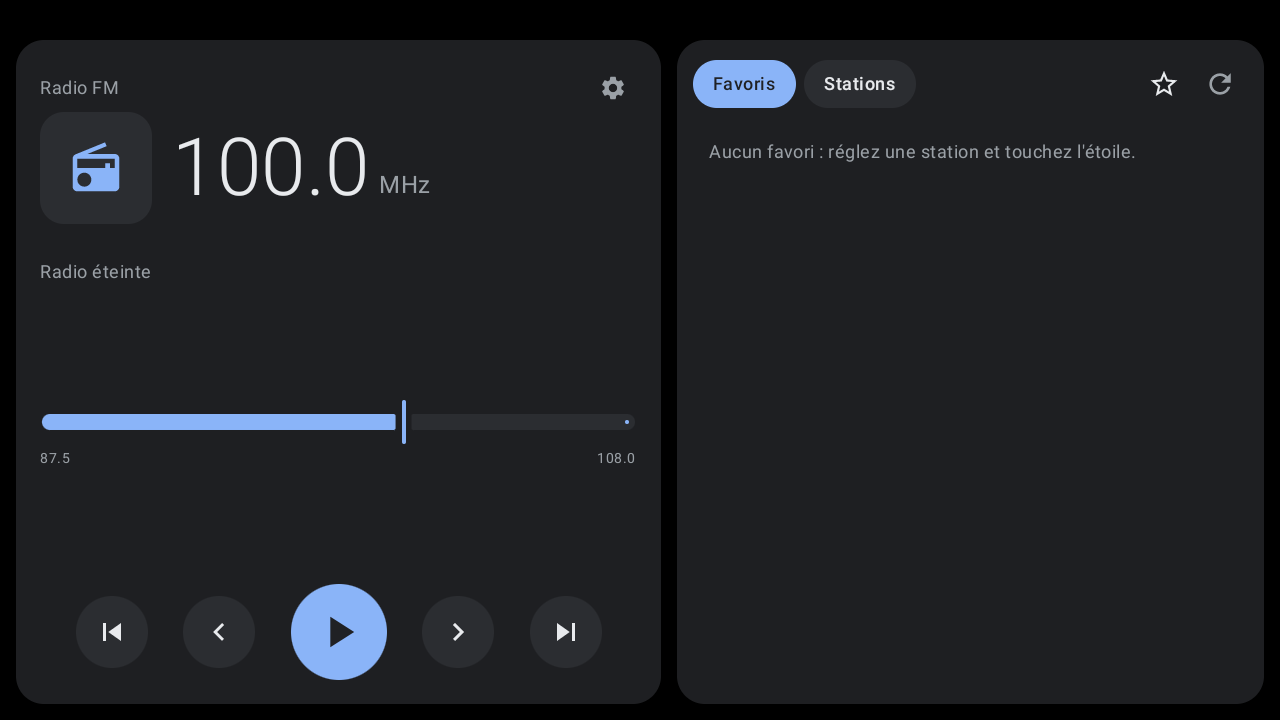
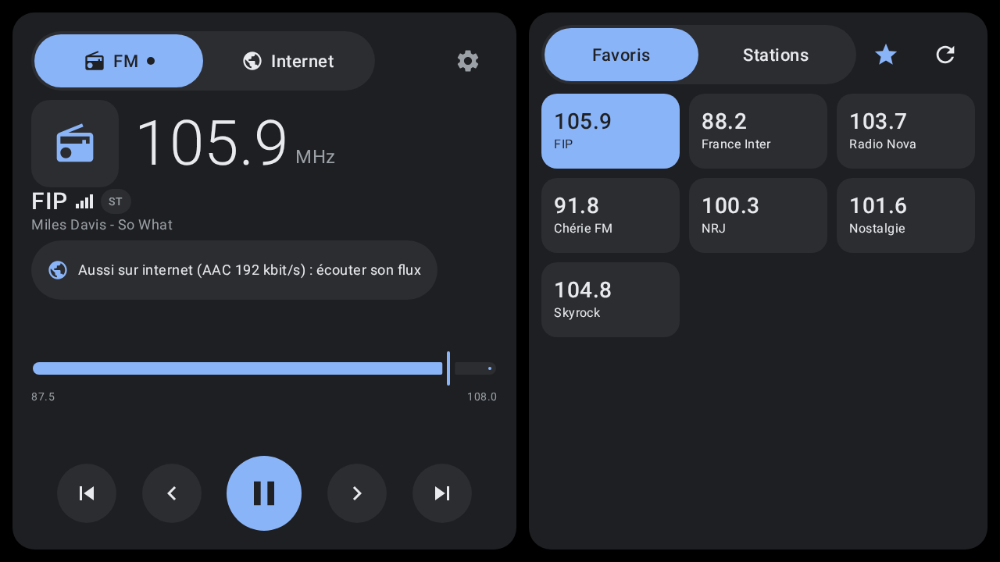
LibreHU FM: antenna amplifier setting, FM | Internet switch at car touch size (76 dp), fresh main and stations screenshots [skip ci]
Claude-Session: https://claude.ai/code/session_01XRjtAUQRfPdhpQr2pgpTdm

diff --git a/docs.html b/docs.html
@@ -256,8 +256,8 @@ adb shell pm enable com.jancar.services</code></pre>
 
 <h2 id="apps"><span lang="en">Other apps</span><span lang="fr">Autres applis</span></h2>
 <h3>LibreHU FM</h3>
-<p><span lang="en">FM radio on the internal MediaTek chip (MT6631 combo, <code>/dev/fm</code>): stations, seek, scan, RDS, station logos, widget; asks LibreHU service for the antenna power (GPIO 110 + MCU <code>43</code>) while it plays. <strong>RDS on the AC8257</strong> (station name, radiotext, PTY, TP / TA, AF) since builds <code>e65f5a0</code> (main), <code>44994bc</code> (librehu-service) and <code>33a91aa</code> (ivi): the FM driver gives a 720-byte RDS record (RT+ tags included) and the app, which asked for 688 bytes, never got one; it now reads both formats. Analysis and first fix: Reo Au In. <strong>Band and region</strong> (settings, also from the phone): from the country or chosen; Europe, Africa, Asia 87.5–108 MHz, 100 kHz steps, 50 µs de-emphasis; Americas and South Korea 87.5–107.9 MHz on the odd tenths, 200 kHz steps, <strong>75 µs</strong> de-emphasis (US stations no longer sound too bright) and RBDS programme types; Brazil with its extended band 76.1–107.9 MHz; Japan 76–95 MHz. <strong>US call letters</strong> worked out from the PI code (NRSC-4-B) when the station sends no name. <strong>Enhanced RadioText (eRT)</strong>, the UTF-8 text of non-Latin scripts, rebuilt from the raw RDS groups, with its artist and title (eRT+). <strong>Reception</strong>: signal bars and stereo indicator, forced mono (LibreHU kernel r146 and later, whose FM driver now passes the command on), search of strong stations only (local). <strong>Traffic announcements</strong> (option): full volume while the radio plays; over another source, the radio staying on in the background and taking over during the announcement (not with Jancar ivi-services). <strong>RDS clock</strong> (option): the head unit's clock set from the station's time. <strong>Alert</strong> (programme type 31): red line and priority notification. <strong>Songs heard</strong>: RT+ history with the time. US station logos looked up by call letters. <strong>Accented letters</strong> of the RDS (EN 50067 character set) are shown instead of spaces. <strong>RT+</strong>: artist and title tagged by the station, under the station name, on the widget, the notification and the launcher's media card.</span><span lang="fr">Radio FM sur la puce MediaTek interne (combo MT6631, <code>/dev/fm</code>) : stations, recherche, balayage, RDS, logos des stations, widget ; demande à LibreHU service l'alimentation de l'antenne (GPIO 110 + MCU <code>43</code>) pendant la lecture. <strong>RDS sur l'AC8257</strong> (nom de station, radiotexte, PTY, TP / TA, AF) depuis les builds <code>e65f5a0</code> (main), <code>44994bc</code> (librehu-service) et <code>33a91aa</code> (ivi) : le pilote FM rend un enregistrement RDS de 720 octets (balises RT+ comprises) et l'appli, qui en demandait 688, n'en recevait aucun ; elle lit maintenant les deux formats. Analyse et premier correctif : Reo Au In. <strong>Bande et région</strong> (paramètres, aussi depuis le téléphone) : d'après le pays ou au choix ; Europe, Afrique, Asie 87,5–108 MHz, pas de 100 kHz, désaccentuation 50 µs ; Amériques et Corée du Sud 87,5–107,9 MHz sur les dixièmes impairs, pas de 200 kHz, désaccentuation <strong>75 µs</strong> (les stations américaines ne sonnent plus trop aiguës) et types de programme RBDS ; Brésil avec sa bande étendue 76,1–107,9 MHz ; Japon 76–95 MHz. <strong>Indicatifs américains</strong> calculés depuis le code PI (NRSC-4-B) quand la station n'envoie pas de nom. <strong>Radiotexte étendu (eRT)</strong>, le texte UTF-8 des écritures non latines, reconstruit à partir des groupes RDS bruts, avec son artiste et son titre (eRT+). <strong>Réception</strong> : barres de signal et indicateur stéréo, mono forcé (noyau LibreHU r146 et plus, dont le pilote FM transmet enfin la commande), recherche des stations fortes seulement (locales). <strong>Annonces trafic</strong> (option) : volume plein si la radio joue ; par-dessus une autre source, la radio restant allumée en fond et prenant la main pendant l'annonce (pas avec Jancar ivi-services). <strong>Heure RDS</strong> (option) : horloge de l'autoradio réglée sur l'heure de la station. <strong>Alerte</strong> (type de programme 31) : ligne rouge et notification prioritaire. <strong>Titres entendus</strong> : historique RT+ avec l'heure. Logos des stations américaines cherchés par indicatif. Les <strong>lettres accentuées</strong> du RDS (table de caractères EN 50067) s'affichent au lieu d'espaces. <strong>RT+</strong> : artiste et titre balisés par la station, sous le nom de la station, sur le widget, la notification et la carte média du lanceur.</span></p>
-<p><span lang="en"><strong>Internet radio</strong> (FM | Internet tabs, modern style): Media3 player (MP3, AAC, Opus, FLAC, HLS) with the song title sent by the stream (ICY), a 15 to 60 s buffer and automatic reconnection after a coverage hole. <strong>Add by hand</strong> a stream address or an <strong>M3U / PLS</strong> link, or <strong>import an M3U / PLS file</strong> (USB key). <strong>Catalogue</strong>: the <a href="https://www.radio-browser.info">Radio Browser</a> list of the country (community, about 4 MB for France, kept a week), by <strong>region</strong> (merged spellings; only about one French station in five gives one, national networks none: they are under "National / no region"), by genre and by name, each chosen on a <strong>grid of big tiles</strong> fitting one screen (biggest regions first, small ones under "Other regions"; country of the catalogue apart from the FM band's); the streams of a station are grouped and the one played follows the <strong>quality</strong> setting: best sound (FLAC, then the highest bitrate) or less data (128 kbit/s ≈ 58 MB per hour, 320 kbit/s ≈ 144 MB). The head unit's audio output is 48 kHz / 16-bit stereo: above CD quality nothing more is heard. <strong>From FM to the internet</strong>: when the FM station is also on the internet and the internet works, the FM screen offers its stream (one touch), then "Back to FM"; only on a clear name match (two stations about as close to the 8-letter RDS name: nothing is offered). In the launcher's <strong>factory</strong> and <strong>LHU-Link</strong> styles too: an <strong>Internet</strong> key on their FM screen, which also shows the offer; factory = the station between ‹ ›, saved stations in six-tile pages, catalogue list; LHU-Link = Playing / Internet stations / Catalogue tabs, Options. Also: a <strong>logo</strong> chosen per station (touch the logo), stream titles in the songs heard, the phone app's radio page (FM or internet, station), reconnection as soon as the network is back. Traffic announcements stay FM only.</span><span lang="fr"><strong>Radio internet</strong> (onglets FM | Internet, style moderne) : lecteur Media3 (MP3, AAC, Opus, FLAC, HLS) avec le titre envoyé par le flux (ICY), un tampon de 15 à 60 s et la reconnexion automatique après une coupure de réseau. <strong>Ajouter à la main</strong> une adresse de flux ou un lien <strong>M3U / PLS</strong>, ou <strong>importer un fichier M3U / PLS</strong> (clé USB). <strong>Catalogue</strong> : la liste <a href="https://www.radio-browser.info">Radio Browser</a> du pays (communautaire, environ 4 Mo pour la France, gardée une semaine), par <strong>région</strong> (écritures fusionnées ; une station française sur cinq environ en donne une, les réseaux nationaux aucune : ils sont dans « Nationales / sans région »), par genre et par nom, chacun choisi sur une <strong>grille de grandes tuiles</strong> qui tient sur un écran (grandes régions d'abord, petites sous « Autres régions » ; pays du catalogue à part de celui de la bande FM) ; les flux d'une station sont regroupés et celui joué suit le réglage de <strong>qualité</strong> : meilleur son (FLAC, puis le plus haut débit) ou moins de données (128 kbit/s ≈ 58 Mo par heure, 320 kbit/s ≈ 144 Mo). La sortie audio de l'autoradio est en stéréo 48 kHz / 16 bits : au-delà de la qualité CD, rien ne s'entend en plus. <strong>De la FM à internet</strong> : quand la station FM est aussi sur internet et qu'internet marche, l'écran FM propose son flux (un toucher), puis « Revenir en FM » ; seulement sur un nom sans doute (deux stations presque aussi proches du nom RDS de 8 lettres : rien n'est proposé). Aussi dans les styles <strong>d'usine</strong> et <strong>LHU-Link</strong> du launcher : touche <strong>Internet</strong> sur leur écran FM, qui montre aussi la proposition ; usine = la station entre ‹ ›, stations enregistrées en pages de six tuiles, catalogue en liste ; LHU-Link = onglets Lecture / Stations internet / Catalogue, Options. Et : un <strong>logo</strong> au choix par station (toucher le logo), titres des flux dans les titres entendus, page radio de l'appli téléphone (FM ou internet, station), reconnexion dès le retour du réseau. Les annonces trafic restent en FM seulement.</span></p>
+<p><span lang="en">FM radio on the internal MediaTek chip (MT6631 combo, <code>/dev/fm</code>): stations, seek, scan, RDS, station logos, widget; asks LibreHU service for the antenna power (GPIO 110 + MCU <code>43</code>) while it plays. <strong>RDS on the AC8257</strong> (station name, radiotext, PTY, TP / TA, AF) since builds <code>e65f5a0</code> (main), <code>44994bc</code> (librehu-service) and <code>33a91aa</code> (ivi): the FM driver gives a 720-byte RDS record (RT+ tags included) and the app, which asked for 688 bytes, never got one; it now reads both formats. Analysis and first fix: Reo Au In. <strong>Band and region</strong> (settings, also from the phone): from the country or chosen; Europe, Africa, Asia 87.5–108 MHz, 100 kHz steps, 50 µs de-emphasis; Americas and South Korea 87.5–107.9 MHz on the odd tenths, 200 kHz steps, <strong>75 µs</strong> de-emphasis (US stations no longer sound too bright) and RBDS programme types; Brazil with its extended band 76.1–107.9 MHz; Japan 76–95 MHz. <strong>US call letters</strong> worked out from the PI code (NRSC-4-B) when the station sends no name. <strong>Enhanced RadioText (eRT)</strong>, the UTF-8 text of non-Latin scripts, rebuilt from the raw RDS groups, with its artist and title (eRT+). <strong>Reception</strong>: signal bars and stereo indicator, forced mono (LibreHU kernel r146 and later, whose FM driver now passes the command on), search of strong stations only (local), <strong>antenna amplifier</strong> (option, on by default: the antenna is powered, GPIO 110 + MCU command <code>43</code>, while the FM chip is on; off for a passive antenna; shown in the LibreHU-service edition, ivi-services decides by itself). <strong>Traffic announcements</strong> (option): full volume while the radio plays; over another source, the radio staying on in the background and taking over during the announcement (not with Jancar ivi-services). <strong>RDS clock</strong> (option): the head unit's clock set from the station's time. <strong>Alert</strong> (programme type 31): red line and priority notification. <strong>Songs heard</strong>: RT+ history with the time. US station logos looked up by call letters. <strong>Accented letters</strong> of the RDS (EN 50067 character set) are shown instead of spaces. <strong>RT+</strong>: artist and title tagged by the station, under the station name, on the widget, the notification and the launcher's media card.</span><span lang="fr">Radio FM sur la puce MediaTek interne (combo MT6631, <code>/dev/fm</code>) : stations, recherche, balayage, RDS, logos des stations, widget ; demande à LibreHU service l'alimentation de l'antenne (GPIO 110 + MCU <code>43</code>) pendant la lecture. <strong>RDS sur l'AC8257</strong> (nom de station, radiotexte, PTY, TP / TA, AF) depuis les builds <code>e65f5a0</code> (main), <code>44994bc</code> (librehu-service) et <code>33a91aa</code> (ivi) : le pilote FM rend un enregistrement RDS de 720 octets (balises RT+ comprises) et l'appli, qui en demandait 688, n'en recevait aucun ; elle lit maintenant les deux formats. Analyse et premier correctif : Reo Au In. <strong>Bande et région</strong> (paramètres, aussi depuis le téléphone) : d'après le pays ou au choix ; Europe, Afrique, Asie 87,5–108 MHz, pas de 100 kHz, désaccentuation 50 µs ; Amériques et Corée du Sud 87,5–107,9 MHz sur les dixièmes impairs, pas de 200 kHz, désaccentuation <strong>75 µs</strong> (les stations américaines ne sonnent plus trop aiguës) et types de programme RBDS ; Brésil avec sa bande étendue 76,1–107,9 MHz ; Japon 76–95 MHz. <strong>Indicatifs américains</strong> calculés depuis le code PI (NRSC-4-B) quand la station n'envoie pas de nom. <strong>Radiotexte étendu (eRT)</strong>, le texte UTF-8 des écritures non latines, reconstruit à partir des groupes RDS bruts, avec son artiste et son titre (eRT+). <strong>Réception</strong> : barres de signal et indicateur stéréo, mono forcé (noyau LibreHU r146 et plus, dont le pilote FM transmet enfin la commande), recherche des stations fortes seulement (locales), <strong>ampli d'antenne</strong> (option, activé par défaut : l'antenne est alimentée, GPIO 110 + commande MCU <code>43</code>, pendant que la puce FM est allumée ; à couper avec une antenne passive ; affiché dans l'édition LibreHU-service, ivi-services décide lui-même). <strong>Annonces trafic</strong> (option) : volume plein si la radio joue ; par-dessus une autre source, la radio restant allumée en fond et prenant la main pendant l'annonce (pas avec Jancar ivi-services). <strong>Heure RDS</strong> (option) : horloge de l'autoradio réglée sur l'heure de la station. <strong>Alerte</strong> (type de programme 31) : ligne rouge et notification prioritaire. <strong>Titres entendus</strong> : historique RT+ avec l'heure. Logos des stations américaines cherchés par indicatif. Les <strong>lettres accentuées</strong> du RDS (table de caractères EN 50067) s'affichent au lieu d'espaces. <strong>RT+</strong> : artiste et titre balisés par la station, sous le nom de la station, sur le widget, la notification et la carte média du lanceur.</span></p>
+<p><span lang="en"><strong>Internet radio</strong> (FM | Internet switch at the top left of the modern style, with a dot on the source playing; in that style every key is at least 76 dp, <a href="https://developers.google.com/cars/design/android-auto/design-system/sizing">Google's minimum touch size in a car</a>): Media3 player (MP3, AAC, Opus, FLAC, HLS) with the song title sent by the stream (ICY), a 15 to 60 s buffer and automatic reconnection after a coverage hole. <strong>Add by hand</strong> a stream address or an <strong>M3U / PLS</strong> link, or <strong>import an M3U / PLS file</strong> (USB key). <strong>Catalogue</strong>: the <a href="https://www.radio-browser.info">Radio Browser</a> list of the country (community, about 4 MB for France, kept a week), by <strong>region</strong> (merged spellings; only about one French station in five gives one, national networks none: they are under "National / no region"), by genre and by name, each chosen on a <strong>grid of big tiles</strong> fitting one screen (biggest regions first, small ones under "Other regions"; country of the catalogue apart from the FM band's); the streams of a station are grouped and the one played follows the <strong>quality</strong> setting: best sound (FLAC, then the highest bitrate) or less data (128 kbit/s ≈ 58 MB per hour, 320 kbit/s ≈ 144 MB). The head unit's audio output is 48 kHz / 16-bit stereo: above CD quality nothing more is heard. <strong>From FM to the internet</strong>: when the FM station is also on the internet and the internet works, the FM screen offers its stream (one touch), then "Back to FM"; only on a clear name match (two stations about as close to the 8-letter RDS name: nothing is offered). In the launcher's <strong>factory</strong> and <strong>LHU-Link</strong> styles too: an <strong>Internet</strong> key on their FM screen, which also shows the offer; factory = the station between ‹ ›, saved stations in six-tile pages, catalogue list; LHU-Link = Playing / Internet stations / Catalogue tabs, Options. Also: a <strong>logo</strong> chosen per station (touch the logo), stream titles in the songs heard, the phone app's radio page (FM or internet, station), reconnection as soon as the network is back. Traffic announcements stay FM only.</span><span lang="fr"><strong>Radio internet</strong> (sélecteur FM | Internet en haut à gauche du style moderne, avec un point sur la source qui joue ; dans ce style chaque touche fait au moins 76 dp, <a href="https://developers.google.com/cars/design/android-auto/design-system/sizing">la taille tactile minimale de Google en voiture</a>) : lecteur Media3 (MP3, AAC, Opus, FLAC, HLS) avec le titre envoyé par le flux (ICY), un tampon de 15 à 60 s et la reconnexion automatique après une coupure de réseau. <strong>Ajouter à la main</strong> une adresse de flux ou un lien <strong>M3U / PLS</strong>, ou <strong>importer un fichier M3U / PLS</strong> (clé USB). <strong>Catalogue</strong> : la liste <a href="https://www.radio-browser.info">Radio Browser</a> du pays (communautaire, environ 4 Mo pour la France, gardée une semaine), par <strong>région</strong> (écritures fusionnées ; une station française sur cinq environ en donne une, les réseaux nationaux aucune : ils sont dans « Nationales / sans région »), par genre et par nom, chacun choisi sur une <strong>grille de grandes tuiles</strong> qui tient sur un écran (grandes régions d'abord, petites sous « Autres régions » ; pays du catalogue à part de celui de la bande FM) ; les flux d'une station sont regroupés et celui joué suit le réglage de <strong>qualité</strong> : meilleur son (FLAC, puis le plus haut débit) ou moins de données (128 kbit/s ≈ 58 Mo par heure, 320 kbit/s ≈ 144 Mo). La sortie audio de l'autoradio est en stéréo 48 kHz / 16 bits : au-delà de la qualité CD, rien ne s'entend en plus. <strong>De la FM à internet</strong> : quand la station FM est aussi sur internet et qu'internet marche, l'écran FM propose son flux (un toucher), puis « Revenir en FM » ; seulement sur un nom sans doute (deux stations presque aussi proches du nom RDS de 8 lettres : rien n'est proposé). Aussi dans les styles <strong>d'usine</strong> et <strong>LHU-Link</strong> du launcher : touche <strong>Internet</strong> sur leur écran FM, qui montre aussi la proposition ; usine = la station entre ‹ ›, stations enregistrées en pages de six tuiles, catalogue en liste ; LHU-Link = onglets Lecture / Stations internet / Catalogue, Options. Et : un <strong>logo</strong> au choix par station (toucher le logo), titres des flux dans les titres entendus, page radio de l'appli téléphone (FM ou internet, station), reconnexion dès le retour du réseau. Les annonces trafic restent en FM seulement.</span></p>
 <h3>LibreHU Dialer</h3>
 <p><span lang="en">Bluetooth phone made for the car: keypad, recents, contacts, favourites, incoming call window and floating bubble, widgets.</span><span lang="fr">Téléphone Bluetooth pensé pour la voiture : clavier, récents, contacts, favoris, fenêtre d'appel entrant et bulle flottante, widgets.</span></p>
 <h3>LibreHU Widgets</h3>

diff --git a/src/docs.html b/src/docs.html
@@ -206,8 +206,8 @@ adb shell pm enable com.jancar.services</code></pre>
 
 <h2 id="apps" bi>Other apps<fr>Autres applis</h2>
 <h3>LibreHU FM</h3>
-<p bi>FM radio on the internal MediaTek chip (MT6631 combo, <code>/dev/fm</code>): stations, seek, scan, RDS, station logos, widget; asks LibreHU service for the antenna power (GPIO 110 + MCU <code>43</code>) while it plays. <strong>RDS on the AC8257</strong> (station name, radiotext, PTY, TP / TA, AF) since builds <code>e65f5a0</code> (main), <code>44994bc</code> (librehu-service) and <code>33a91aa</code> (ivi): the FM driver gives a 720-byte RDS record (RT+ tags included) and the app, which asked for 688 bytes, never got one; it now reads both formats. Analysis and first fix: Reo Au In. <strong>Band and region</strong> (settings, also from the phone): from the country or chosen; Europe, Africa, Asia 87.5–108 MHz, 100 kHz steps, 50 µs de-emphasis; Americas and South Korea 87.5–107.9 MHz on the odd tenths, 200 kHz steps, <strong>75 µs</strong> de-emphasis (US stations no longer sound too bright) and RBDS programme types; Brazil with its extended band 76.1–107.9 MHz; Japan 76–95 MHz. <strong>US call letters</strong> worked out from the PI code (NRSC-4-B) when the station sends no name. <strong>Enhanced RadioText (eRT)</strong>, the UTF-8 text of non-Latin scripts, rebuilt from the raw RDS groups, with its artist and title (eRT+). <strong>Reception</strong>: signal bars and stereo indicator, forced mono (LibreHU kernel r146 and later, whose FM driver now passes the command on), search of strong stations only (local). <strong>Traffic announcements</strong> (option): full volume while the radio plays; over another source, the radio staying on in the background and taking over during the announcement (not with Jancar ivi-services). <strong>RDS clock</strong> (option): the head unit's clock set from the station's time. <strong>Alert</strong> (programme type 31): red line and priority notification. <strong>Songs heard</strong>: RT+ history with the time. US station logos looked up by call letters. <strong>Accented letters</strong> of the RDS (EN 50067 character set) are shown instead of spaces. <strong>RT+</strong>: artist and title tagged by the station, under the station name, on the widget, the notification and the launcher's media card.<fr>Radio FM sur la puce MediaTek interne (combo MT6631, <code>/dev/fm</code>) : stations, recherche, balayage, RDS, logos des stations, widget ; demande à LibreHU service l'alimentation de l'antenne (GPIO 110 + MCU <code>43</code>) pendant la lecture. <strong>RDS sur l'AC8257</strong> (nom de station, radiotexte, PTY, TP / TA, AF) depuis les builds <code>e65f5a0</code> (main), <code>44994bc</code> (librehu-service) et <code>33a91aa</code> (ivi) : le pilote FM rend un enregistrement RDS de 720 octets (balises RT+ comprises) et l'appli, qui en demandait 688, n'en recevait aucun ; elle lit maintenant les deux formats. Analyse et premier correctif : Reo Au In. <strong>Bande et région</strong> (paramètres, aussi depuis le téléphone) : d'après le pays ou au choix ; Europe, Afrique, Asie 87,5–108 MHz, pas de 100 kHz, désaccentuation 50 µs ; Amériques et Corée du Sud 87,5–107,9 MHz sur les dixièmes impairs, pas de 200 kHz, désaccentuation <strong>75 µs</strong> (les stations américaines ne sonnent plus trop aiguës) et types de programme RBDS ; Brésil avec sa bande étendue 76,1–107,9 MHz ; Japon 76–95 MHz. <strong>Indicatifs américains</strong> calculés depuis le code PI (NRSC-4-B) quand la station n'envoie pas de nom. <strong>Radiotexte étendu (eRT)</strong>, le texte UTF-8 des écritures non latines, reconstruit à partir des groupes RDS bruts, avec son artiste et son titre (eRT+). <strong>Réception</strong> : barres de signal et indicateur stéréo, mono forcé (noyau LibreHU r146 et plus, dont le pilote FM transmet enfin la commande), recherche des stations fortes seulement (locales). <strong>Annonces trafic</strong> (option) : volume plein si la radio joue ; par-dessus une autre source, la radio restant allumée en fond et prenant la main pendant l'annonce (pas avec Jancar ivi-services). <strong>Heure RDS</strong> (option) : horloge de l'autoradio réglée sur l'heure de la station. <strong>Alerte</strong> (type de programme 31) : ligne rouge et notification prioritaire. <strong>Titres entendus</strong> : historique RT+ avec l'heure. Logos des stations américaines cherchés par indicatif. Les <strong>lettres accentuées</strong> du RDS (table de caractères EN 50067) s'affichent au lieu d'espaces. <strong>RT+</strong> : artiste et titre balisés par la station, sous le nom de la station, sur le widget, la notification et la carte média du lanceur.</p>
-<p bi><strong>Internet radio</strong> (FM | Internet tabs, modern style): Media3 player (MP3, AAC, Opus, FLAC, HLS) with the song title sent by the stream (ICY), a 15 to 60 s buffer and automatic reconnection after a coverage hole. <strong>Add by hand</strong> a stream address or an <strong>M3U / PLS</strong> link, or <strong>import an M3U / PLS file</strong> (USB key). <strong>Catalogue</strong>: the <a href="https://www.radio-browser.info">Radio Browser</a> list of the country (community, about 4 MB for France, kept a week), by <strong>region</strong> (merged spellings; only about one French station in five gives one, national networks none: they are under "National / no region"), by genre and by name, each chosen on a <strong>grid of big tiles</strong> fitting one screen (biggest regions first, small ones under "Other regions"; country of the catalogue apart from the FM band's); the streams of a station are grouped and the one played follows the <strong>quality</strong> setting: best sound (FLAC, then the highest bitrate) or less data (128 kbit/s ≈ 58 MB per hour, 320 kbit/s ≈ 144 MB). The head unit's audio output is 48 kHz / 16-bit stereo: above CD quality nothing more is heard. <strong>From FM to the internet</strong>: when the FM station is also on the internet and the internet works, the FM screen offers its stream (one touch), then "Back to FM"; only on a clear name match (two stations about as close to the 8-letter RDS name: nothing is offered). In the launcher's <strong>factory</strong> and <strong>LHU-Link</strong> styles too: an <strong>Internet</strong> key on their FM screen, which also shows the offer; factory = the station between ‹ ›, saved stations in six-tile pages, catalogue list; LHU-Link = Playing / Internet stations / Catalogue tabs, Options. Also: a <strong>logo</strong> chosen per station (touch the logo), stream titles in the songs heard, the phone app's radio page (FM or internet, station), reconnection as soon as the network is back. Traffic announcements stay FM only.<fr><strong>Radio internet</strong> (onglets FM | Internet, style moderne) : lecteur Media3 (MP3, AAC, Opus, FLAC, HLS) avec le titre envoyé par le flux (ICY), un tampon de 15 à 60 s et la reconnexion automatique après une coupure de réseau. <strong>Ajouter à la main</strong> une adresse de flux ou un lien <strong>M3U / PLS</strong>, ou <strong>importer un fichier M3U / PLS</strong> (clé USB). <strong>Catalogue</strong> : la liste <a href="https://www.radio-browser.info">Radio Browser</a> du pays (communautaire, environ 4 Mo pour la France, gardée une semaine), par <strong>région</strong> (écritures fusionnées ; une station française sur cinq environ en donne une, les réseaux nationaux aucune : ils sont dans « Nationales / sans région »), par genre et par nom, chacun choisi sur une <strong>grille de grandes tuiles</strong> qui tient sur un écran (grandes régions d'abord, petites sous « Autres régions » ; pays du catalogue à part de celui de la bande FM) ; les flux d'une station sont regroupés et celui joué suit le réglage de <strong>qualité</strong> : meilleur son (FLAC, puis le plus haut débit) ou moins de données (128 kbit/s ≈ 58 Mo par heure, 320 kbit/s ≈ 144 Mo). La sortie audio de l'autoradio est en stéréo 48 kHz / 16 bits : au-delà de la qualité CD, rien ne s'entend en plus. <strong>De la FM à internet</strong> : quand la station FM est aussi sur internet et qu'internet marche, l'écran FM propose son flux (un toucher), puis « Revenir en FM » ; seulement sur un nom sans doute (deux stations presque aussi proches du nom RDS de 8 lettres : rien n'est proposé). Aussi dans les styles <strong>d'usine</strong> et <strong>LHU-Link</strong> du launcher : touche <strong>Internet</strong> sur leur écran FM, qui montre aussi la proposition ; usine = la station entre ‹ ›, stations enregistrées en pages de six tuiles, catalogue en liste ; LHU-Link = onglets Lecture / Stations internet / Catalogue, Options. Et : un <strong>logo</strong> au choix par station (toucher le logo), titres des flux dans les titres entendus, page radio de l'appli téléphone (FM ou internet, station), reconnexion dès le retour du réseau. Les annonces trafic restent en FM seulement.</p>
+<p bi>FM radio on the internal MediaTek chip (MT6631 combo, <code>/dev/fm</code>): stations, seek, scan, RDS, station logos, widget; asks LibreHU service for the antenna power (GPIO 110 + MCU <code>43</code>) while it plays. <strong>RDS on the AC8257</strong> (station name, radiotext, PTY, TP / TA, AF) since builds <code>e65f5a0</code> (main), <code>44994bc</code> (librehu-service) and <code>33a91aa</code> (ivi): the FM driver gives a 720-byte RDS record (RT+ tags included) and the app, which asked for 688 bytes, never got one; it now reads both formats. Analysis and first fix: Reo Au In. <strong>Band and region</strong> (settings, also from the phone): from the country or chosen; Europe, Africa, Asia 87.5–108 MHz, 100 kHz steps, 50 µs de-emphasis; Americas and South Korea 87.5–107.9 MHz on the odd tenths, 200 kHz steps, <strong>75 µs</strong> de-emphasis (US stations no longer sound too bright) and RBDS programme types; Brazil with its extended band 76.1–107.9 MHz; Japan 76–95 MHz. <strong>US call letters</strong> worked out from the PI code (NRSC-4-B) when the station sends no name. <strong>Enhanced RadioText (eRT)</strong>, the UTF-8 text of non-Latin scripts, rebuilt from the raw RDS groups, with its artist and title (eRT+). <strong>Reception</strong>: signal bars and stereo indicator, forced mono (LibreHU kernel r146 and later, whose FM driver now passes the command on), search of strong stations only (local), <strong>antenna amplifier</strong> (option, on by default: the antenna is powered, GPIO 110 + MCU command <code>43</code>, while the FM chip is on; off for a passive antenna; shown in the LibreHU-service edition, ivi-services decides by itself). <strong>Traffic announcements</strong> (option): full volume while the radio plays; over another source, the radio staying on in the background and taking over during the announcement (not with Jancar ivi-services). <strong>RDS clock</strong> (option): the head unit's clock set from the station's time. <strong>Alert</strong> (programme type 31): red line and priority notification. <strong>Songs heard</strong>: RT+ history with the time. US station logos looked up by call letters. <strong>Accented letters</strong> of the RDS (EN 50067 character set) are shown instead of spaces. <strong>RT+</strong>: artist and title tagged by the station, under the station name, on the widget, the notification and the launcher's media card.<fr>Radio FM sur la puce MediaTek interne (combo MT6631, <code>/dev/fm</code>) : stations, recherche, balayage, RDS, logos des stations, widget ; demande à LibreHU service l'alimentation de l'antenne (GPIO 110 + MCU <code>43</code>) pendant la lecture. <strong>RDS sur l'AC8257</strong> (nom de station, radiotexte, PTY, TP / TA, AF) depuis les builds <code>e65f5a0</code> (main), <code>44994bc</code> (librehu-service) et <code>33a91aa</code> (ivi) : le pilote FM rend un enregistrement RDS de 720 octets (balises RT+ comprises) et l'appli, qui en demandait 688, n'en recevait aucun ; elle lit maintenant les deux formats. Analyse et premier correctif : Reo Au In. <strong>Bande et région</strong> (paramètres, aussi depuis le téléphone) : d'après le pays ou au choix ; Europe, Afrique, Asie 87,5–108 MHz, pas de 100 kHz, désaccentuation 50 µs ; Amériques et Corée du Sud 87,5–107,9 MHz sur les dixièmes impairs, pas de 200 kHz, désaccentuation <strong>75 µs</strong> (les stations américaines ne sonnent plus trop aiguës) et types de programme RBDS ; Brésil avec sa bande étendue 76,1–107,9 MHz ; Japon 76–95 MHz. <strong>Indicatifs américains</strong> calculés depuis le code PI (NRSC-4-B) quand la station n'envoie pas de nom. <strong>Radiotexte étendu (eRT)</strong>, le texte UTF-8 des écritures non latines, reconstruit à partir des groupes RDS bruts, avec son artiste et son titre (eRT+). <strong>Réception</strong> : barres de signal et indicateur stéréo, mono forcé (noyau LibreHU r146 et plus, dont le pilote FM transmet enfin la commande), recherche des stations fortes seulement (locales), <strong>ampli d'antenne</strong> (option, activé par défaut : l'antenne est alimentée, GPIO 110 + commande MCU <code>43</code>, pendant que la puce FM est allumée ; à couper avec une antenne passive ; affiché dans l'édition LibreHU-service, ivi-services décide lui-même). <strong>Annonces trafic</strong> (option) : volume plein si la radio joue ; par-dessus une autre source, la radio restant allumée en fond et prenant la main pendant l'annonce (pas avec Jancar ivi-services). <strong>Heure RDS</strong> (option) : horloge de l'autoradio réglée sur l'heure de la station. <strong>Alerte</strong> (type de programme 31) : ligne rouge et notification prioritaire. <strong>Titres entendus</strong> : historique RT+ avec l'heure. Logos des stations américaines cherchés par indicatif. Les <strong>lettres accentuées</strong> du RDS (table de caractères EN 50067) s'affichent au lieu d'espaces. <strong>RT+</strong> : artiste et titre balisés par la station, sous le nom de la station, sur le widget, la notification et la carte média du lanceur.</p>
+<p bi><strong>Internet radio</strong> (FM | Internet switch at the top left of the modern style, with a dot on the source playing; in that style every key is at least 76 dp, <a href="https://developers.google.com/cars/design/android-auto/design-system/sizing">Google's minimum touch size in a car</a>): Media3 player (MP3, AAC, Opus, FLAC, HLS) with the song title sent by the stream (ICY), a 15 to 60 s buffer and automatic reconnection after a coverage hole. <strong>Add by hand</strong> a stream address or an <strong>M3U / PLS</strong> link, or <strong>import an M3U / PLS file</strong> (USB key). <strong>Catalogue</strong>: the <a href="https://www.radio-browser.info">Radio Browser</a> list of the country (community, about 4 MB for France, kept a week), by <strong>region</strong> (merged spellings; only about one French station in five gives one, national networks none: they are under "National / no region"), by genre and by name, each chosen on a <strong>grid of big tiles</strong> fitting one screen (biggest regions first, small ones under "Other regions"; country of the catalogue apart from the FM band's); the streams of a station are grouped and the one played follows the <strong>quality</strong> setting: best sound (FLAC, then the highest bitrate) or less data (128 kbit/s ≈ 58 MB per hour, 320 kbit/s ≈ 144 MB). The head unit's audio output is 48 kHz / 16-bit stereo: above CD quality nothing more is heard. <strong>From FM to the internet</strong>: when the FM station is also on the internet and the internet works, the FM screen offers its stream (one touch), then "Back to FM"; only on a clear name match (two stations about as close to the 8-letter RDS name: nothing is offered). In the launcher's <strong>factory</strong> and <strong>LHU-Link</strong> styles too: an <strong>Internet</strong> key on their FM screen, which also shows the offer; factory = the station between ‹ ›, saved stations in six-tile pages, catalogue list; LHU-Link = Playing / Internet stations / Catalogue tabs, Options. Also: a <strong>logo</strong> chosen per station (touch the logo), stream titles in the songs heard, the phone app's radio page (FM or internet, station), reconnection as soon as the network is back. Traffic announcements stay FM only.<fr><strong>Radio internet</strong> (sélecteur FM | Internet en haut à gauche du style moderne, avec un point sur la source qui joue ; dans ce style chaque touche fait au moins 76 dp, <a href="https://developers.google.com/cars/design/android-auto/design-system/sizing">la taille tactile minimale de Google en voiture</a>) : lecteur Media3 (MP3, AAC, Opus, FLAC, HLS) avec le titre envoyé par le flux (ICY), un tampon de 15 à 60 s et la reconnexion automatique après une coupure de réseau. <strong>Ajouter à la main</strong> une adresse de flux ou un lien <strong>M3U / PLS</strong>, ou <strong>importer un fichier M3U / PLS</strong> (clé USB). <strong>Catalogue</strong> : la liste <a href="https://www.radio-browser.info">Radio Browser</a> du pays (communautaire, environ 4 Mo pour la France, gardée une semaine), par <strong>région</strong> (écritures fusionnées ; une station française sur cinq environ en donne une, les réseaux nationaux aucune : ils sont dans « Nationales / sans région »), par genre et par nom, chacun choisi sur une <strong>grille de grandes tuiles</strong> qui tient sur un écran (grandes régions d'abord, petites sous « Autres régions » ; pays du catalogue à part de celui de la bande FM) ; les flux d'une station sont regroupés et celui joué suit le réglage de <strong>qualité</strong> : meilleur son (FLAC, puis le plus haut débit) ou moins de données (128 kbit/s ≈ 58 Mo par heure, 320 kbit/s ≈ 144 Mo). La sortie audio de l'autoradio est en stéréo 48 kHz / 16 bits : au-delà de la qualité CD, rien ne s'entend en plus. <strong>De la FM à internet</strong> : quand la station FM est aussi sur internet et qu'internet marche, l'écran FM propose son flux (un toucher), puis « Revenir en FM » ; seulement sur un nom sans doute (deux stations presque aussi proches du nom RDS de 8 lettres : rien n'est proposé). Aussi dans les styles <strong>d'usine</strong> et <strong>LHU-Link</strong> du launcher : touche <strong>Internet</strong> sur leur écran FM, qui montre aussi la proposition ; usine = la station entre ‹ ›, stations enregistrées en pages de six tuiles, catalogue en liste ; LHU-Link = onglets Lecture / Stations internet / Catalogue, Options. Et : un <strong>logo</strong> au choix par station (toucher le logo), titres des flux dans les titres entendus, page radio de l'appli téléphone (FM ou internet, station), reconnexion dès le retour du réseau. Les annonces trafic restent en FM seulement.</p>
 <h3>LibreHU Dialer</h3>
 <p bi>Bluetooth phone made for the car: keypad, recents, contacts, favourites, incoming call window and floating bubble, widgets.<fr>Téléphone Bluetooth pensé pour la voiture : clavier, récents, contacts, favoris, fenêtre d'appel entrant et bulle flottante, widgets.</p>
 <h3>LibreHU Widgets</h3>
